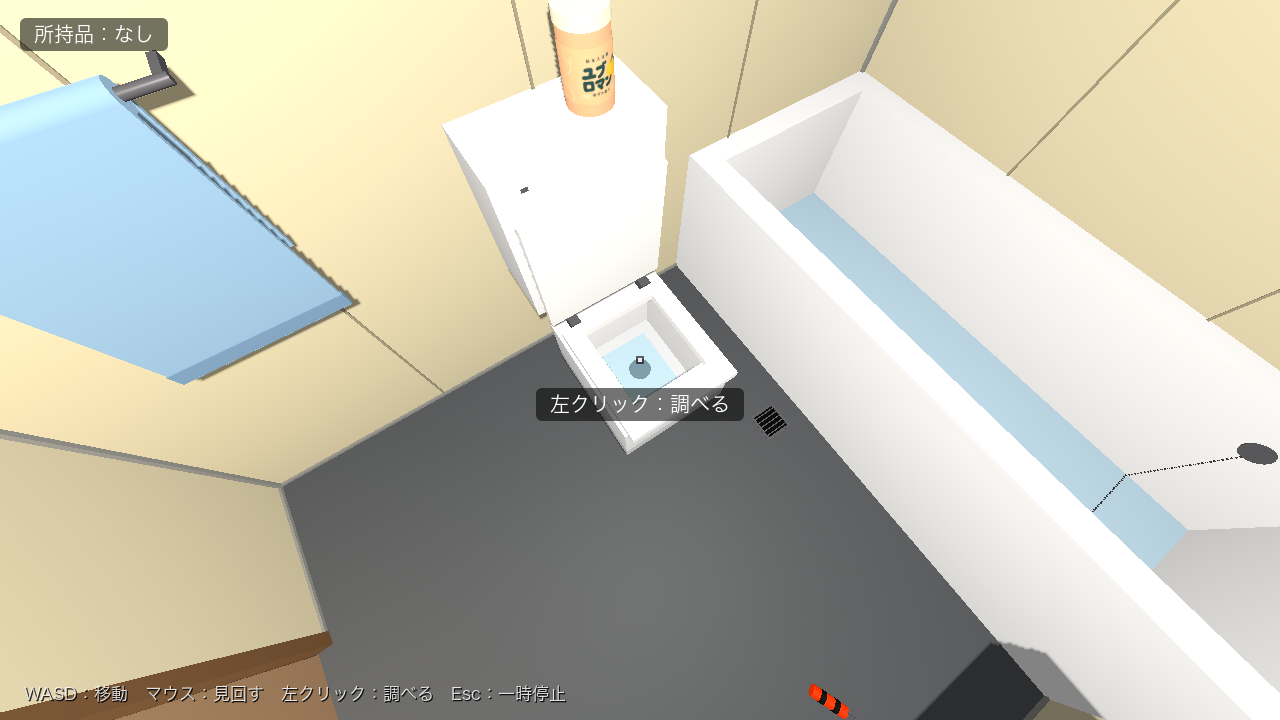
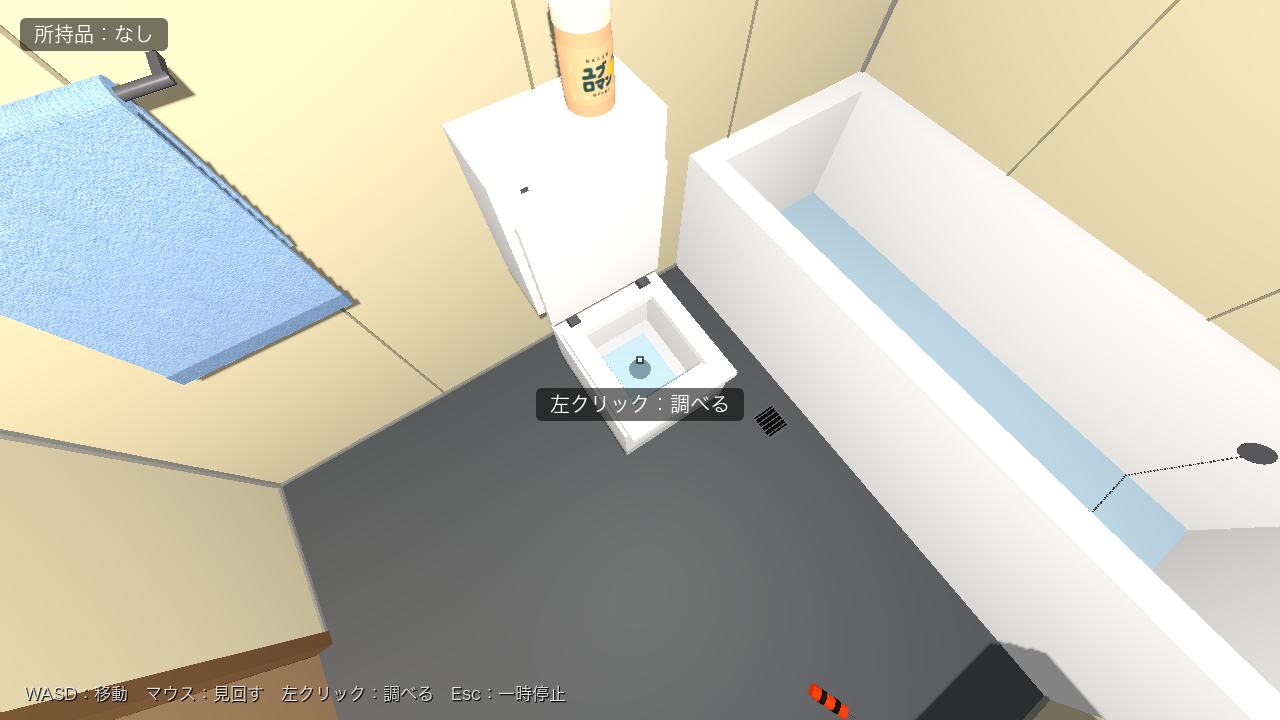
TASK-05 follow-up: towel fabric and toothpaste label textures, goal spec
- towel_fabric.png (512x512, made seamless) applied with triplanar tiling
  (0.2m per tile) via MeshKit.tiled_mat(); hem is a darker tint
- toothpaste_label.png (271x512) wrapped ~200deg on the tapered tube front
  via MeshKit.band() (generalized from the bath powder label band)
- docs/assets.md: crop/resize/seam processing, AI-generated source
- README: canonical goal (vent -> balcony -> own room), door repair as a
  shortcut, corridor clear is a prototype placeholder
- refreshed TASK-05 screenshots, towel/toothpaste closeups

Changed region(s): [[0.0, 0.1222, 0.1875, 0.4278]]

diff --git a/docs/assets.md b/docs/assets.md
@@ -37,3 +37,24 @@
 | 調べる判定 | `BathPowder/Collision`（円柱、world レイヤー）。`interact_id = "bath_powder"` |
 | 出典 | ChatGPT の画像生成で作成（生成 AI 使用）。原寸 2000×667（3:1）の WebP を、上下 21 px ずつトリミングして 2000×625（3.2:1）にし、1024×320 に縮小。横に引き伸ばさないための処理で、トリミングした部分に文字はない |
 | 注意 | 左右の端の模様は完全にはつながらないため、継ぎ目は壁側に向けてある |
+
+### towel_fabric.png — タオルの布地（繰り返し）
+
+| 項目 | 内容 |
+|---|---|
+| 用途・場所 | 左の壁のタオル掛けのタオル `TowelBar/Towel`（手前・奥の布、上の丸い折り返し、裾の縁取り） |
+| 解像度 | 512 × 512 px、継ぎ目なしで繰り返す |
+| 貼り方 | `MeshKit.tiled_mat()`：トリプラナー投影で 0.2 m 四方に1枚。箱・円柱のどの面でも同じ細かさになる。裾の縁取りは同じ画像を暗く着色（`albedo_color` 0.78/0.8/0.84） |
+| 形 | 折り返しや厚みはメッシュ（2枚の板＋円柱）で表現。布の物理シミュレーションはなし |
+| 出典 | ChatGPT の画像生成（生成 AI 使用）。2枚組の画像（1536×1024）の左側。灰色の背景と英語の説明文を除き、枠の内側 880×880（x 55〜934, y 34〜913）を切り出して 512×512 に縮小（Lanczos） |
+| 継ぎ目の調整 | 縮小しただけの画像は、2×2 に並べると縦横の境目に線が見えた。半分ずらした画像と、端から約50 pxで切り替わるように混ぜて継ぎ目をなくした（Godot の Image 処理で実施） |
+
+### toothpaste_label.png — 歯磨き粉のラベル（架空の「ハミガキ日和 すっきりミント」）
+
+| 項目 | 内容 |
+|---|---|
+| 用途・場所 | 鏡の下の棚に寝かせたチューブ `SinkShelf/Toothpaste/Label` |
+| 解像度 | 271 × 512 px（元の縦横比を維持） |
+| 貼り方 | チューブの先細りに沿う帯（`MeshKit.band()`、24 分割）。チューブのローカル y −0.05〜0.04（長さ 0.09 m）に、幅 0.048 m（約200°）で巻く。正面は部屋側の斜め上。画像の上（「ハ」）が潰した端、下（ミント）がキャップ側。繰り返しなし |
+| 裏側・キャップ | 単色。本体は画像の地色に近いクリーム色、キャップは青 |
+| 出典 | ChatGPT の画像生成（生成 AI 使用）。2枚組の画像の右側。灰色の背景と英語の説明文を除き、枠の内側 468×885（x 1014〜1481, y 31〜915）を切り出して高さ 512 に縮小 |
